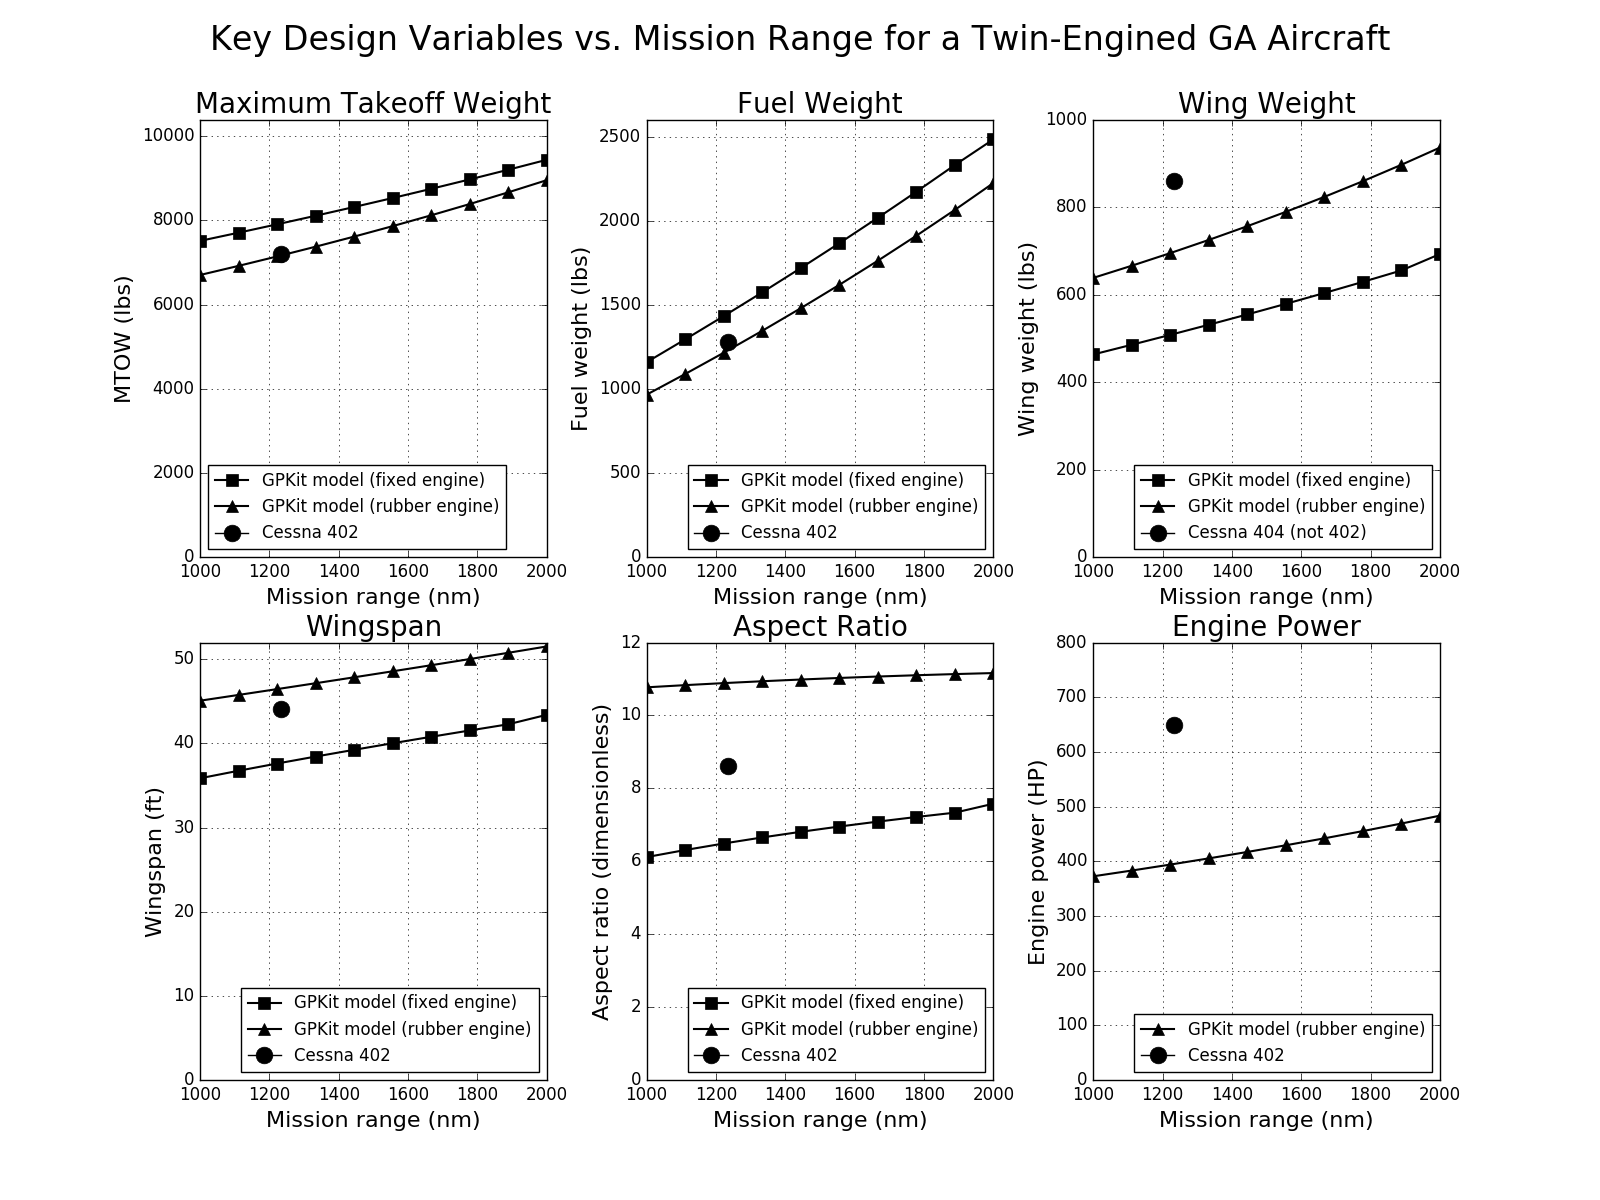
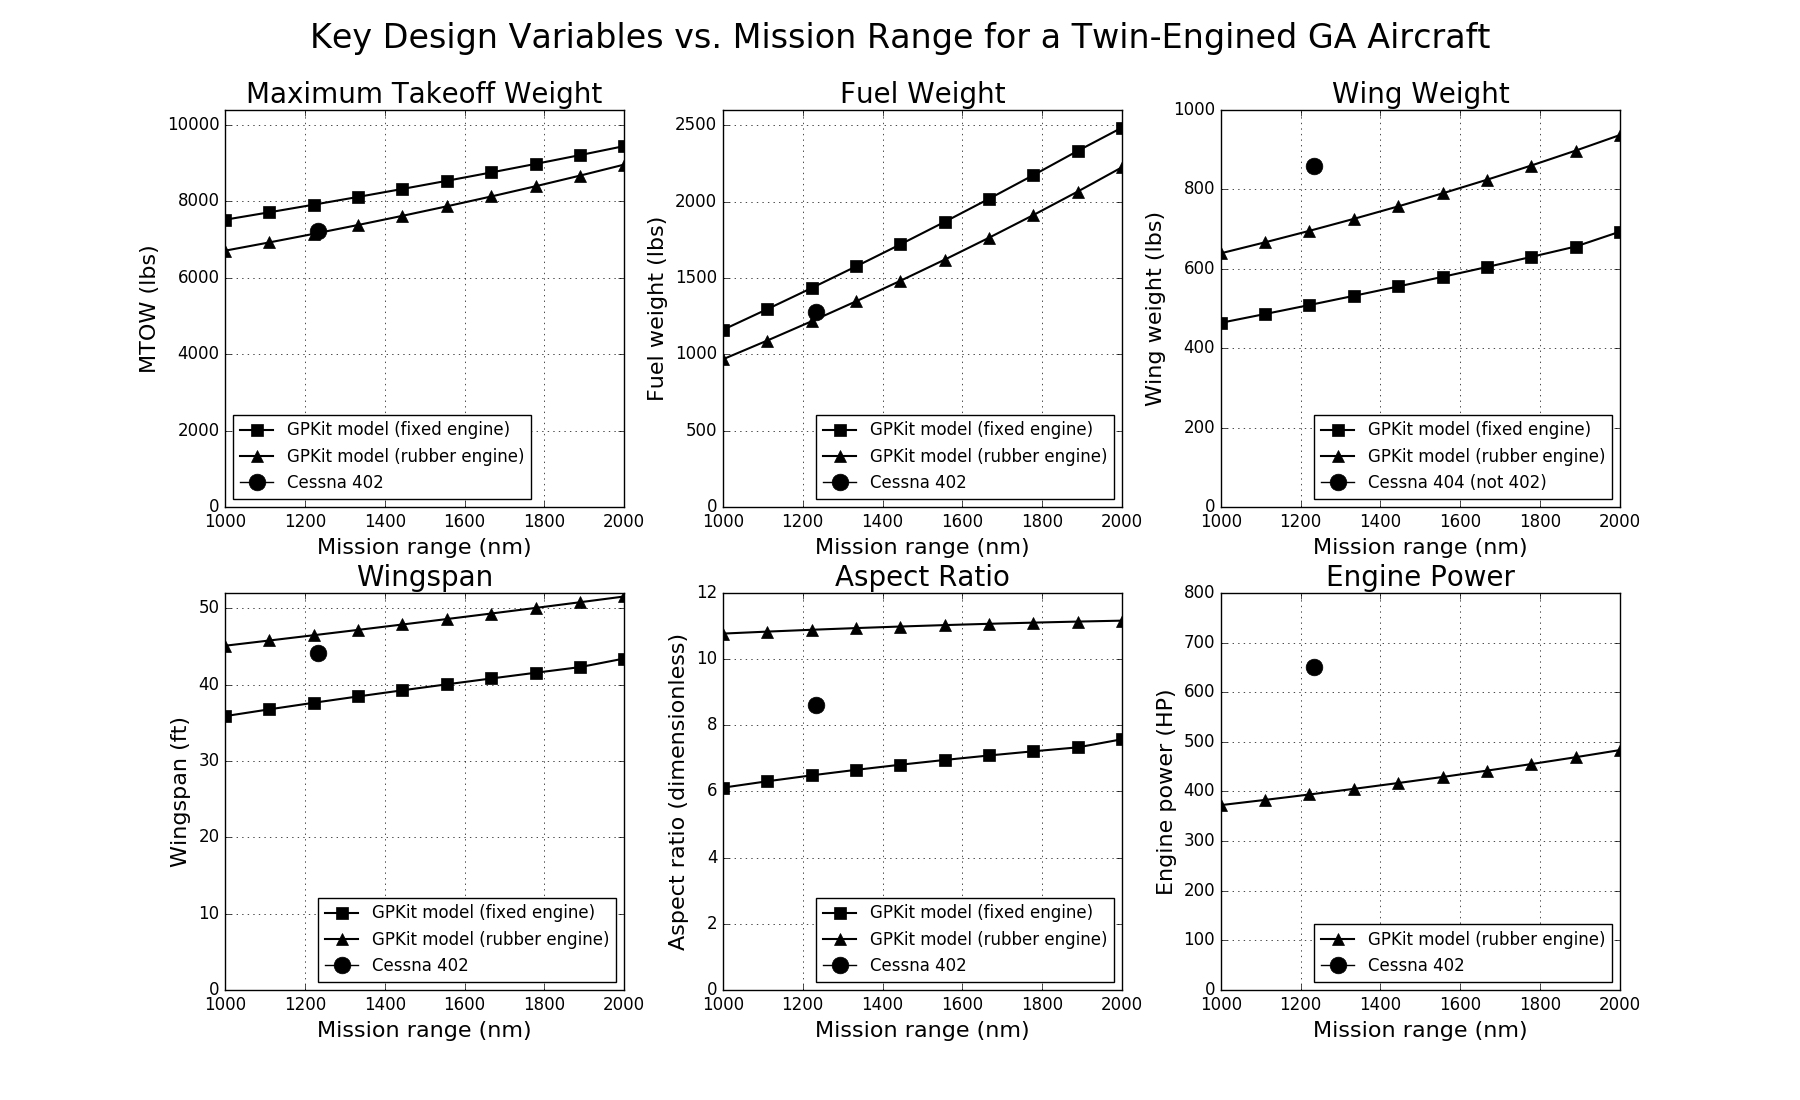
Minor changes

diff --git a/GA_aircraft_models.py b/GA_aircraft_models.py
@@ -281,7 +281,7 @@ class AircraftPerformance(Model):
 
         Wfuel = Variable("W_{fuel}","lbf","Fuel weight (at beginning of segment)")
         Wburn = Variable("W_{burn}","lbf","Fuel burned during segment")
-        L = Variable("L","lbf","Segment lift")
+        W_segment = Variable("W_segment","lbf","Weight at beginning of segment")
         CL = self.aerodynamics["C_L"]
         CD = self.aerodynamics["C_D"]
         
@@ -291,14 +291,14 @@ class AircraftPerformance(Model):
         constraints += [self.aerodynamics]
 
         #lift >= weight
-        constraints += [L == 0.5*state["rho"]*state["V"]**2 * aircraft.wing["S"]*CL,
-        				L >= aircraft["W_ZF"] + Wfuel]
+        constraints += [W_segment == 0.5*state["rho"]*state["V"]**2 * aircraft.wing["S"]*CL,
+        				W_segment >= aircraft["W_ZF"] + Wfuel]
 
         #Breguet range (Taylor)
         z = (g * segmentRange * aircraft.engines["SFC"] * CD) / (aircraft.engines["eta_prop"] * CL)
         constraints += [Wburn >= (z + z**2/np.math.factorial(2)
             + z**3/np.math.factorial(3)
-            + z**4/np.math.factorial(4)) * L] 
+            + z**4/np.math.factorial(4)) * W_segment] 
         
         return constraints
 
@@ -475,7 +475,7 @@ if __name__ == "__main__":
 	ureg = pint.UnitRegistry()
 
 	takeoff_distance_ft = 1763
-	range_nm = 1200
+	range_nm = 1000
 	N = 5 #number of cruise segments
 	stall_speed_kts = 78
 	cruise_speed_kts = 180

diff --git a/cruise_speed_analysis.py b/cruise_speed_analysis.py
@@ -146,7 +146,7 @@ if __name__ == "__main__":
 
 	#Print results to command line
 	print ""
-	print "Analysis of the Cessna 310 (h = 10,00 ft)"
+	print "Analysis of the Cessna 310 (h = 10,000 ft)"
 	print ""
 	print "W_DG: %0.0f lbs" % cessna_310["W_DG"].to(ureg.lbf).magnitude
 	print "S: %0.0f ft^2" % cessna_310["S"].to(square_foot).magnitude

diff --git a/cruiseSpeed_sweep.py b/cruiseSpeed_sweep.py
@@ -12,7 +12,7 @@ from GA_aircraft_models import *
 ureg = pint.UnitRegistry()
 
 takeoff_distance_ft = 1763
-range_nm = 1200#np.linspace(1000,2000,10)
+range_nm = 1000
 N = 5 #number of cruise segments
 stall_speed_kts = 78
 cruise_speed_kts = np.linspace(130,200,10)

diff --git a/GA_model.py b/GA_model.py
@@ -72,7 +72,7 @@ cessna_402_data = {'W_TO':7210*ureg.lbf,
 	"range":1234*ureg.nautical_mile,
     "P":P_available}
 
-fig1 = plt.figure(figsize=(16, 12), dpi=80)
+fig1 = plt.figure(figsize=(18, 11), dpi=80)
 plt.show()
 
 
